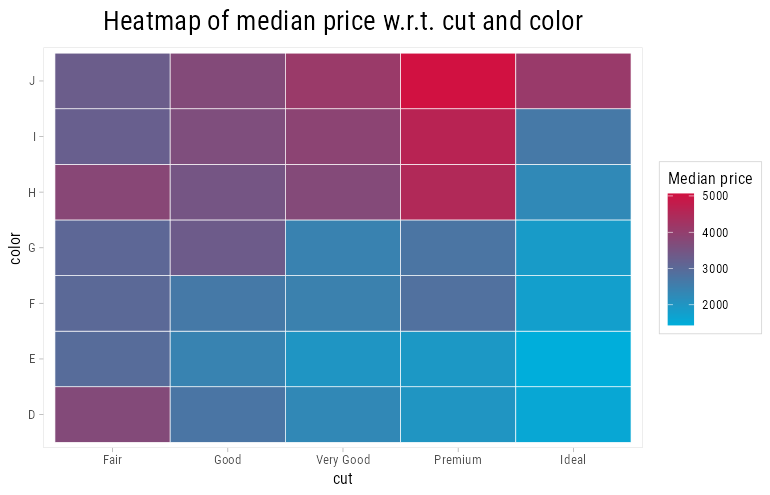
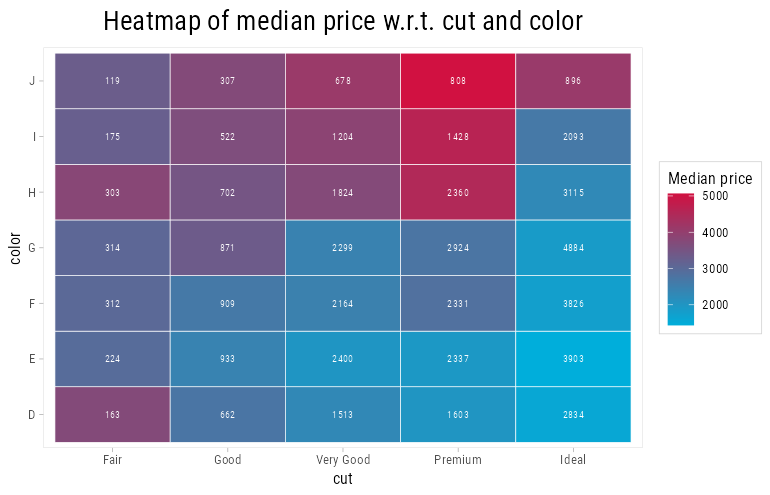
Additional EDA plots and functionality added

diff --git a/README.md b/README.md
@@ -104,6 +104,8 @@ other, whatever their type:
 eda_plot_association_matrix(ggplot2::mpg, outlineVar = "hwy")
 ```
 
+![](man/figures/eda-association.png)
+
 ```r
 eda_plot_missing_counts(airquality)
 ```
@@ -117,6 +119,8 @@ correlation with the target:
 eda_plot_target_correlations(mtcars, "mpg")
 ```
 
+![](man/figures/eda-target-correlations.png)
+
 A category can look backwards when a numerical feature drives both it and
 the target. Better clarity diamonds have a lower median price only because
 they tend to be smaller; within bins of carat, price rises with clarity:
@@ -125,17 +129,23 @@ they tend to be smaller; within bins of carat, price rises with clarity:
 eda_plot_box_by_bins(ggplot2::diamonds, "clarity", "price", "carat", yLog = TRUE)
 ```
 
+![](man/figures/eda-box-by-bins.png)
+
 To pick a transform, compare how linear each one is with the target:
 
 ```r
 eda_plot_transforms(ggplot2::diamonds, "carat", "price")
 ```
 
+![](man/figures/eda-transforms.png)
+
 To find near-constant categorical features and rare levels:
 
 ```r
 eda_plot_category_dominance(ggplot2::mpg, threshold = 0.6)
 ```
+
+![](man/figures/eda-category-dominance.png)
 
 To label the points that pull a linear fit the most, such as a few very
 large houses sold cheaply, use `nLabel`; `flag_outliers()` flags values far
@@ -147,13 +157,17 @@ eda_plot_scatter(cars, "hp", "mpg", nLabel = 3, feature_id = "car")
 cars[flag_outliers(cars$hp), "car"]
 ```
 
+![](man/figures/eda-scatter-labels.png)
+
 To check a model's predictions, with the worst ones labelled:
 
 ```r
 fit <- lm(mpg ~ wt + hp, data = mtcars)
 df <- data.frame(car = rownames(mtcars), mpg = mtcars$mpg, pred = fitted(fit))
-eda_plot_actual_vs_predicted(df, "mpg", "pred", feature_id = "car")
+eda_plot_actual_vs_predicted(df, "mpg", "pred", feature_id = "car", nLabel = 3)
 ```
+
+![](man/figures/eda-actual-vs-predicted.png)
 
 ### Themes and scales
 
